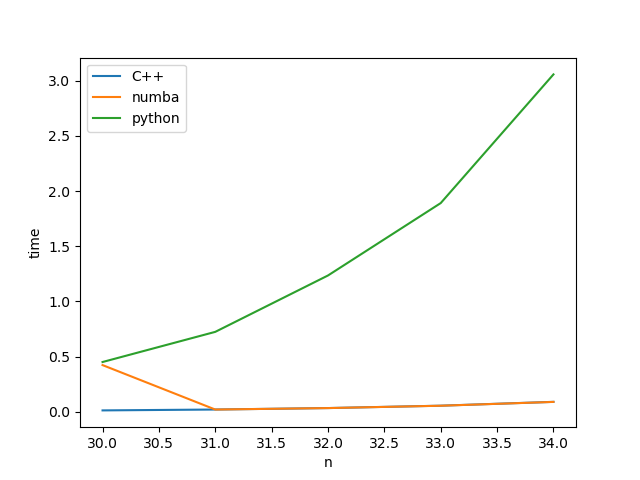
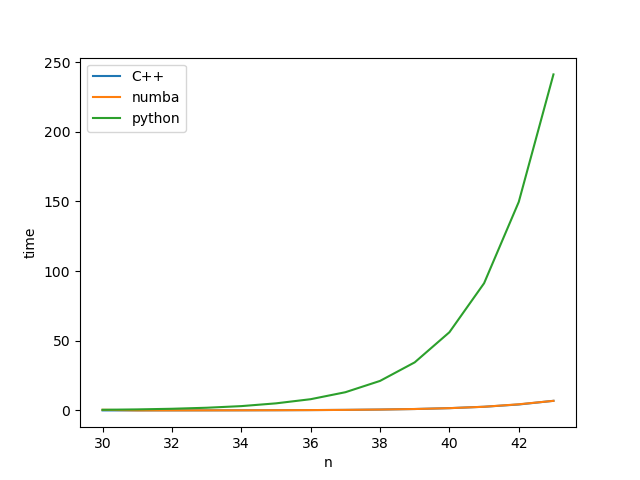
final commit

diff --git a/MA4_2.2.py b/MA4_2.2.py
@@ -7,11 +7,11 @@ import matplotlib.pyplot as plt
 import numpy as np
 
 def main():
-    t = np.arange(30,45,1)
+    t = np.arange(30,44,1)
     timelst_cc = []
     timelst_py = []
     timelst_nu = []
-    for n in range(30,45):
+    for n in range(30,44):
         'C++'
         t1_start = perf_counter()
         f = Person(n)
